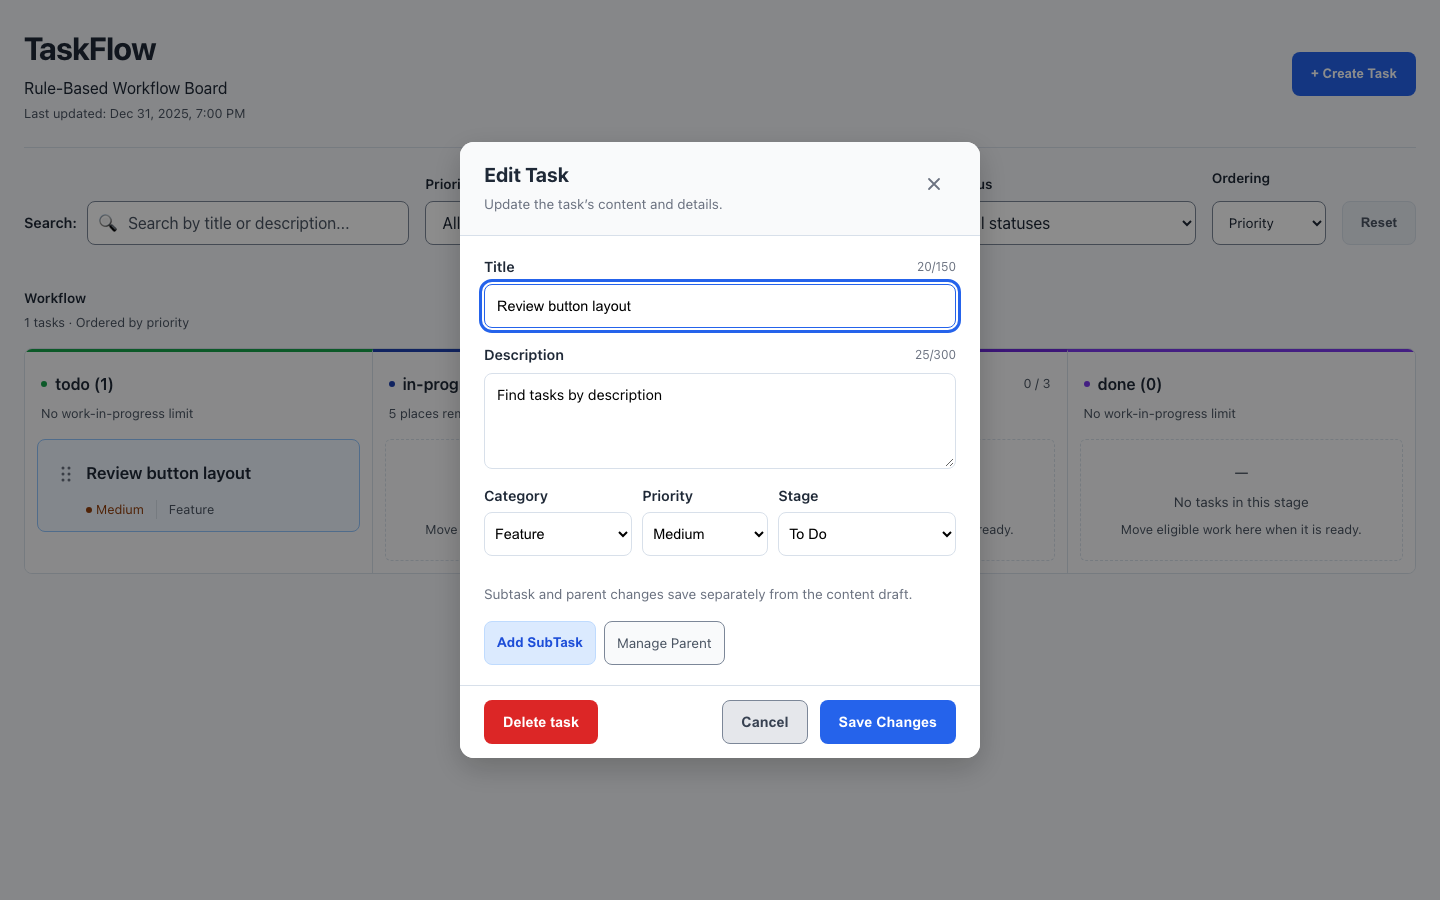
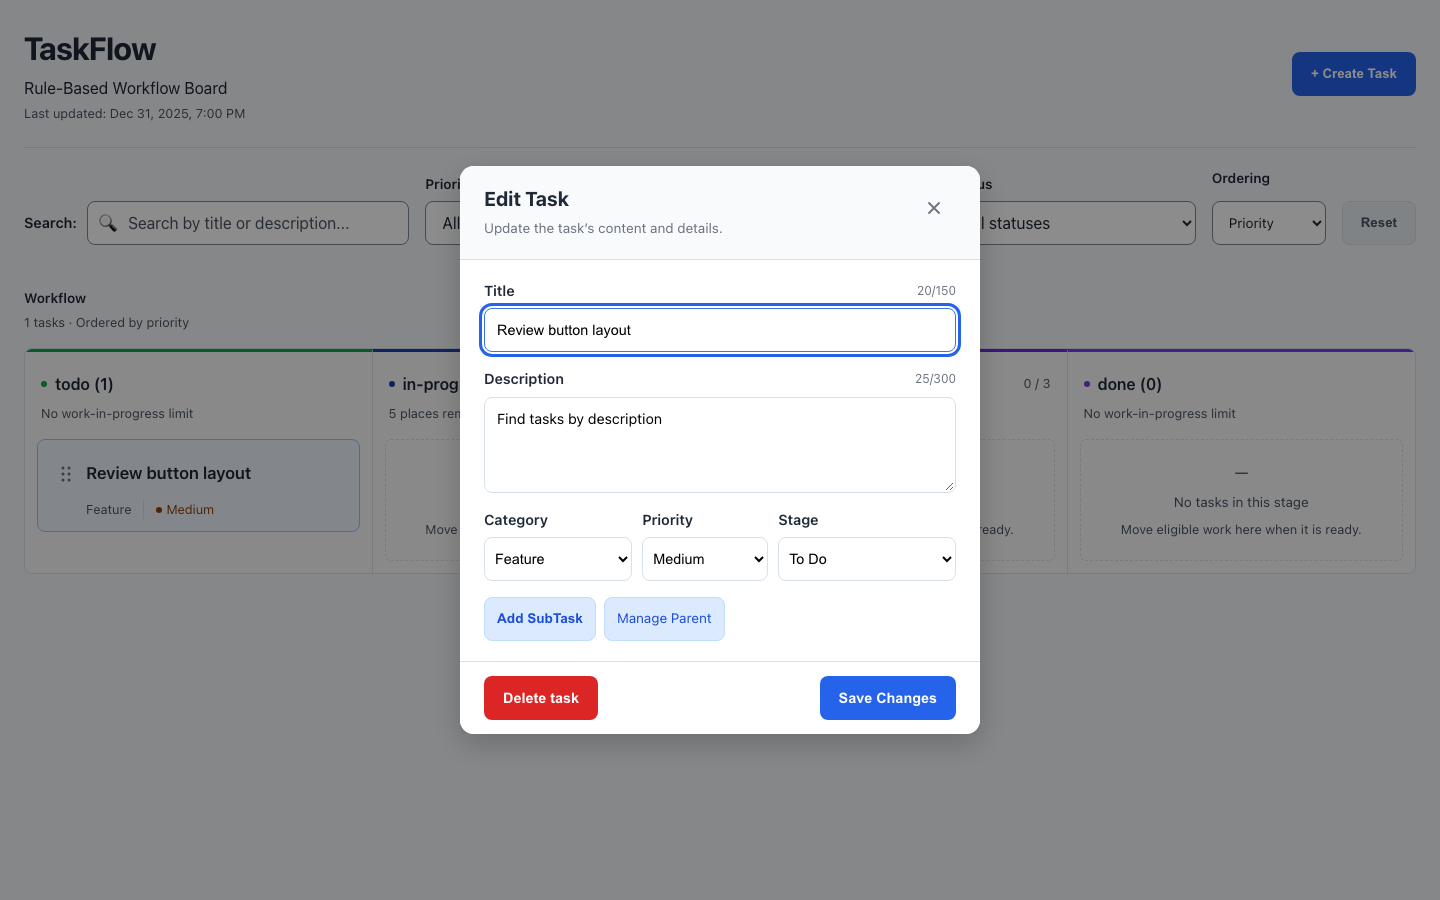
polish: align and style parent management action

diff --git a/src/components/TaskForm/TaskForm.tsx b/src/components/TaskForm/TaskForm.tsx
@@ -268,7 +268,7 @@ export default function TaskForm({
             </small>
           </Field>
 
-          {linkedParent && <TaskParentLink parent={linkedParent} onOpen={handleOpenTask}/>}
+          {linkedParent && <TaskParentLink parent={linkedParent} onOpen={handleOpenTask} action={currentTask && children.length === 0 ? <button type="button" className="editor-manage-parent" onClick={() => setShowRelationshipForm(true)} aria-label={`Manage parent of ${currentTask.title}`}>Manage Parent</button> : undefined}/>}
           <div className={`task-form-select-row${currentTask && onChangeStage ? " has-stage" : ""}`}>
             <div className="task-form-field">
               <label htmlFor={`${fieldPrefix}-category`}>Category</label>
@@ -351,7 +351,7 @@ export default function TaskForm({
             </section>
           )}
 
-          {currentTask && children.length === 0 && <div className="editor-related-actions">
+          {currentTask && !linkedParent && children.length === 0 && <div className="editor-related-actions">
             {!isSubtask && currentTask.status !== "done" && <button type="button" id={`${fieldPrefix}-add-subtask`} className="edit-task-button add-editor-subtask" aria-label={`Add SubTask to ${currentTask.title}`} onClick={() => setSubtaskEditor({ type: "create" })}>Add SubTask</button>}
             <button type="button" className="editor-manage-parent" onClick={() => setShowRelationshipForm(true)} aria-label={`Manage parent of ${currentTask.title}`}>Manage Parent</button>
           </div>}

diff --git a/src/components/TaskParentLink/TaskParentLink.tsx b/src/components/TaskParentLink/TaskParentLink.tsx
@@ -1,8 +1,9 @@
+import type { ReactNode } from "react";
 import type { Task } from "../../domain/task/Task";
 import "./TaskParentLink.css";
-export default function TaskParentLink({ parent, onOpen }: { parent: Task; onOpen: (task: Task) => void }) {
-  return <div className="task-parent-field"><span>Parent</span><button type="button" className="editor-parent-pill" onClick={() => onOpen(parent)} aria-label={`Open parent ${parent.title}`} title={`Parent: ${parent.title}`}>
+export default function TaskParentLink({ parent, onOpen, action }: { parent: Task; onOpen: (task: Task) => void; action?: ReactNode }) {
+  return <div className="task-parent-field"><span>Parent</span><div className="task-parent-row"><button type="button" className="editor-parent-pill" onClick={() => onOpen(parent)} aria-label={`Open parent ${parent.title}`} title={`Parent: ${parent.title}`}>
     <svg className={`parent-pill-icon${parent.status === "done" ? " is-complete" : ""}`} width="18" height="18" viewBox="0 0 18 18" aria-hidden="true"><circle cx="9" cy="9" r="7" fill="none" stroke="currentColor" strokeWidth="1.8"/><circle cx="9" cy="9" r="1.5" fill="currentColor"/></svg>
     <span className="parent-pill-title">{parent.title}</span>
-  </button></div>;
+  </button>{action}</div></div>;
 }

diff --git a/src/components/TaskForm/TaskForm.css b/src/components/TaskForm/TaskForm.css
@@ -57,16 +57,16 @@
 .editor-manage-parent {
   min-height: var(--size-touch-target);
   justify-self: start;
-  border: 1px solid var(--color-control-border);
+  border: 1px solid var(--color-action-subtle-border);
   border-radius: var(--radius-control);
   padding: 6px 12px;
-  background: var(--color-surface-subtle);
-  color: var(--color-text-secondary);
+  background: var(--color-action-subtle);
+  color: var(--color-action-subtle-text);
   font: inherit;
   font-size: var(--font-size-support);
   cursor: pointer;
 }
-.editor-manage-parent:hover { background: var(--color-surface-hover); }
+.editor-manage-parent:hover { background: var(--color-action-subtle-hover); }
 
 .task-editor-subtasks {
   padding: var(--space-3);

diff --git a/src/components/TaskParentLink/TaskParentLink.css b/src/components/TaskParentLink/TaskParentLink.css
@@ -34,3 +34,7 @@
 .task-parent-field { display: flex; flex-direction: column; align-items: flex-start; gap: 6px; min-width: 0; }
 .task-parent-field > span { color: var(--color-text-muted); font-size: var(--font-size-support); }
 .task-parent-field .editor-parent-pill { margin-top: 0; border-radius: var(--radius-control); }
+
+.task-parent-row { display: flex; align-items: center; gap: 8px; max-width: 100%; min-width: 0; }
+.task-parent-row .editor-parent-pill { flex: 0 1 auto; }
+.task-parent-row .editor-manage-parent { flex-shrink: 0; white-space: nowrap; }

diff --git a/docs/v2-task-details.md b/docs/v2-task-details.md
@@ -85,3 +85,9 @@ Board cards now show Category → Priority, matching the details and editor meta
 Completed-subtask checkmarks appear in the opened parent’s subtask list in details/editing. Board cards no longer render a checkmark beside the title. The Done column and relationship text still provide board context.
 
 Verification: nine existing details component tests and two focused desktop/mobile Chromium journeys passed, including retained parent-list marks and absent board-card marks. Lint, strict TypeScript, production build and diff checks passed.
+
+## Compact parent management
+
+In Edit SubTask, Manage Parent sits beside the linked parent name above metadata. Long names truncate visually while retaining their full accessible name and tooltip. Manage Parent uses the same subtle blue background, text, border and hover colors as Add SubTask. Details keep the parent navigation control without a management action; independent-task editors retain the compact Add SubTask/Manage Parent row.
+
+Verification: 30 affected component tests passed. Production Chromium checks at 1440, 390 and 320px confirmed aligned parent/action buttons, 44px targets, full parent labels, working parent management and no horizontal overflow. Lint, strict TypeScript and production build passed. Subtask editor screenshots were refreshed.
